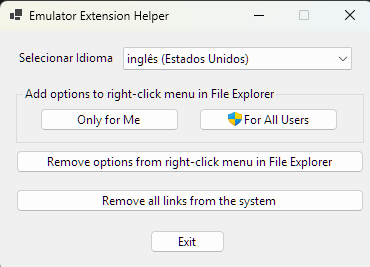
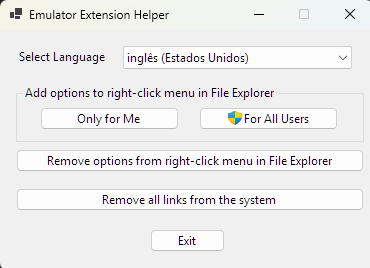
Atualização do texto em inglês para selecionar idioma

diff --git a/UI/frmHelper.cs b/UI/frmHelper.cs
@@ -136,6 +136,7 @@ namespace EmulatorExtensionHelper
             cmdCurrentUser.Text = lang.T("MainForm.CurrentUser");
             cmdAllUsers.Text = lang.T("MainForm.AllUsers");
             cmdRemoveAllAssociations.Text = lang.T("MainForm.RemoveAllAssociations");
+            label1.Text = lang.T("MainForm.SelectLanguage");
         }
     }
 }
